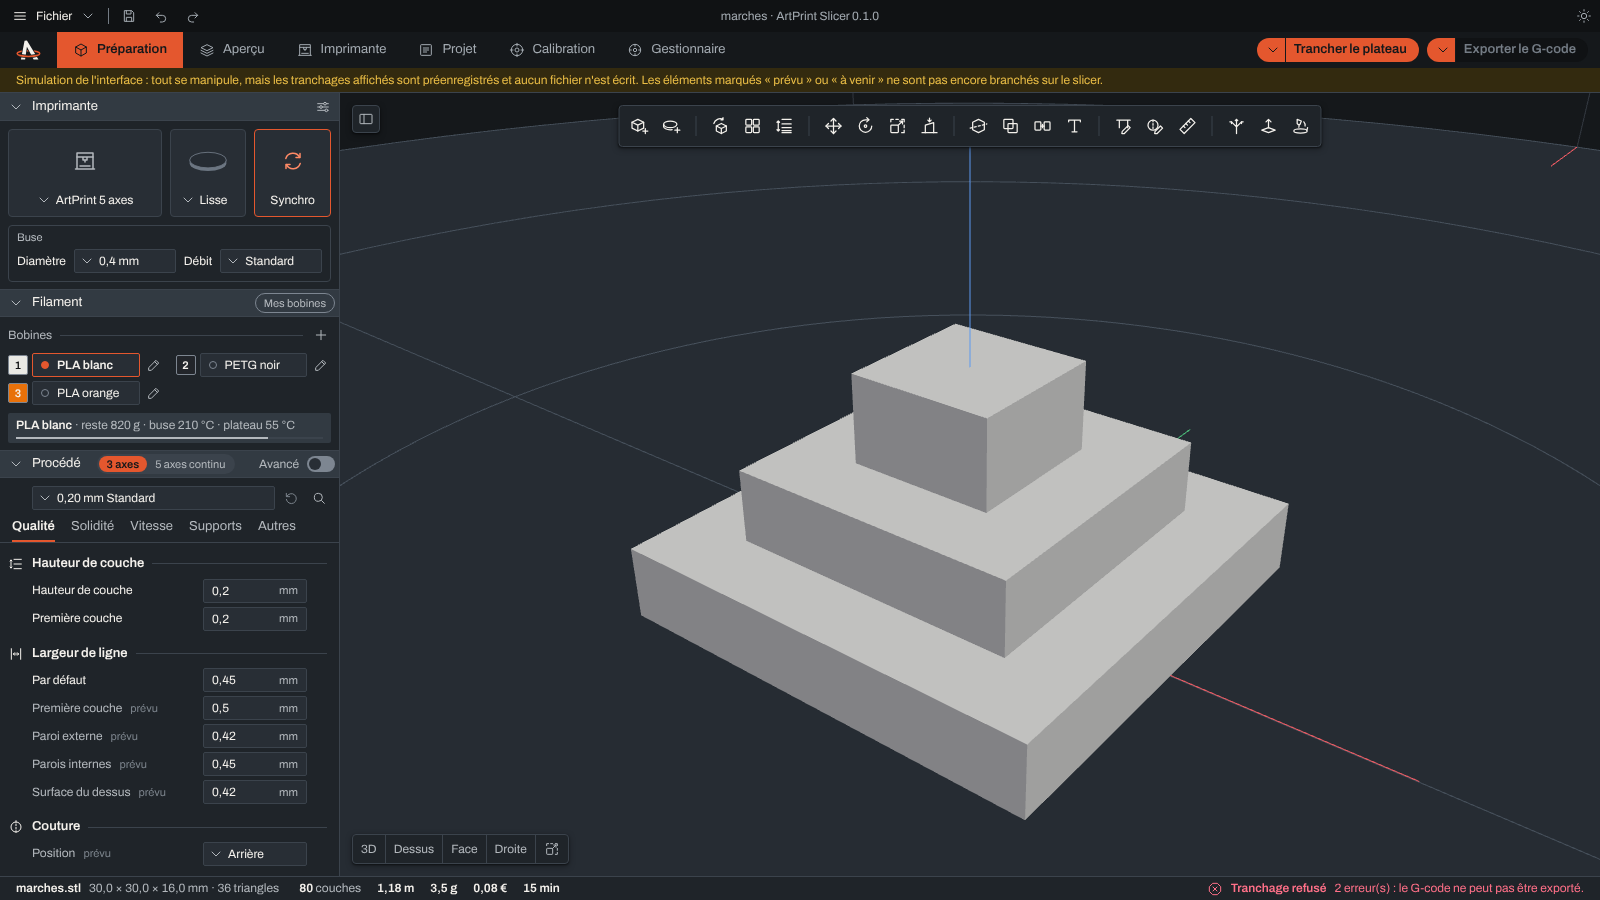
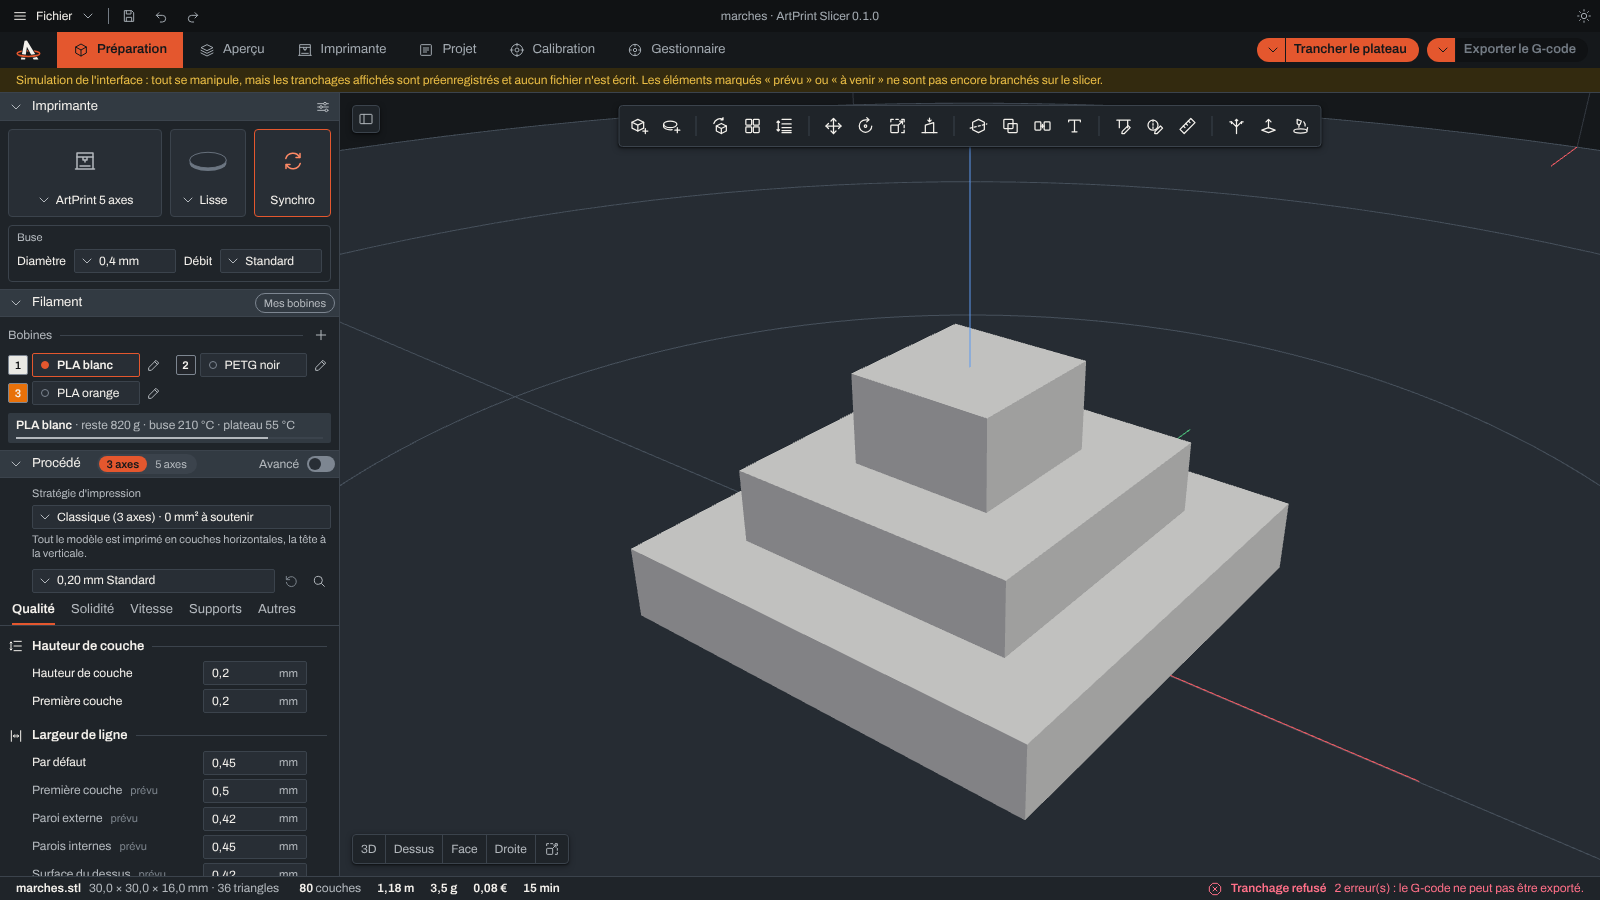
Maquette : choix de la stratégie d'impression ; documentation du 5 axes
- Maquette : bloc « Stratégie d'impression » dans la section Procédé, avec
  la surface à soutenir, les inclinaisons et les remarques ; la pastille
  « 3 axes | 5 axes » suit ce choix ; deux arbres parmi les pièces d'exemple.
- docs/5-axes.md : les cinq axes, la méthode par branches pas à pas, les
  commandes, les réglages utilisés, les limites et la suite.
- Feuille de route et README mis à jour ; captures refaites.

Claude-Session: https://claude.ai/code/session_01AfEuNTdkkqzNC4RYUGH4U7

Changed region(s): [[0.0, 0.5289, 0.1875, 0.9644], [0.125, 0.7156, 0.1875, 0.9644]]

diff --git a/maquette/app.js b/maquette/app.js
@@ -44,6 +44,8 @@ const etat = {
   modele: null,
   resultat: null,
   page: 'preparer',     // page affichée (onglet de la barre du haut)
+  strategies: [],       // façons d'imprimer proposées pour le modèle ouvert
+  strategie: 'classique',
 };
 
 // --- Nombres -------------------------------------------------------------------
@@ -618,6 +620,30 @@ function afficherProcede() {
   zone.scrollTop = defilement;
 }
 
+// --- Stratégies d'impression ------------------------------------------------------
+
+// Liste des façons d'imprimer le modèle ouvert, avec ce qu'il resterait à soutenir.
+function afficherStrategies() {
+  const cinqAxes = etat.strategie === 'par_branches';
+  for (const [id, actif] of [['mode-3axes', !cinqAxes], ['mode-5axes', cinqAxes]]) {
+    $(id).classList.toggle('actif', actif);
+    $(id).setAttribute('aria-pressed', String(actif));
+  }
+  const bloc = $('bloc-strategie');
+  bloc.hidden = !etat.modele || !etat.strategies.length;
+  if (bloc.hidden) return;
+  $('strategie').replaceChildren(...etat.strategies.map((s) => new Option(
+    `${s.nom} · ${entier(s.surplomb_mm2)} mm² à soutenir`, s.type, false, s.type === etat.strategie)));
+  const choisie = etat.strategies.find((s) => s.type === etat.strategie) || etat.strategies[0];
+  const detail = $('strategie-detail');
+  detail.replaceChildren(document.createTextNode(choisie.description));
+  if (choisie.parties.length > 1) {
+    detail.append(document.createTextNode(' Inclinaisons : '),
+      el('b', '', choisie.parties.map((p) => `${fr(p.inclinaison, 0)}°`).join(', ')), document.createTextNode('.'));
+  }
+  for (const remarque of choisie.remarques) detail.append(el('span', 'remarque', remarque));
+}
+
 // --- Relevés, modèle, tranchage --------------------------------------------------
 
 const ICONES_ETAT = { bon: 'ok', mauvais: 'erreur', perime: 'attention' };
@@ -666,6 +692,10 @@ async function ouvrirModele() {
   $('r-modele').textContent = etat.modele.nom;
   $('r-dimensions').textContent = `${fr(x)} × ${fr(y)} × ${fr(z)} mm · ${entier(etat.modele.triangles)} triangles`;
   $('titre-document').textContent = etat.modele.nom.replace(/\.[^.]+$/, '');
+  const proposees = await demander('strategies');
+  etat.strategies = proposees?.strategies ?? [];
+  etat.strategie = 'classique';
+  afficherStrategies();
   if (!etat.modele.ferme) dire(etat.modele.message_fermeture);
   $('btn-trancher').disabled = false;
   perimer();
@@ -736,7 +766,7 @@ async function trancher() {
   if (etat.page !== 'preparer' && etat.page !== 'apercu') choisirVue('preparer');   // pour voir l'attente
   occuper('Tranchage et vérification en cours…');
   await new Promise((suite) => setTimeout(suite, 30));
-  const reponse = await demander('trancher');
+  const reponse = await demander('trancher', { strategie: etat.strategie });
   liberer();
   if (!reponse) { definirEtat('mauvais', 'Tranchage impossible', 'Voir le message en haut de la vue.'); return; }
 
@@ -753,7 +783,9 @@ async function trancher() {
   $('r-cout').textContent = b ? `${fr(grammes * b.prix_kg / 1000, 2)} €` : '';
   $('r-duree').textContent = duree(resultat.duree_s);
   $('etat-resultat').hidden = false;
+  const parties = new Set(resultat.apercu.map((couche) => couche.partie ?? 0)).size;
   $('trajectoires-note').textContent = `Couches de ${ecrire(etat.valeurs.hauteur_couche)} mm · ` +
+    (parties > 1 ? `${parties} parties, chacune dans sa direction · ` : '') +
     `${entier(verification.deplacements_a_vide)} déplacements à vide · ${entier(verification.retractions)} rétractions`;
 
   if (verification.valide) definirEtat('bon', 'G-code vérifié', 'Aucune règle physique violée. Prêt à exporter.');
@@ -862,6 +894,16 @@ function dessinerOutils() {
         bouton.title = 'Ouvrir un modèle…';
         bouton.setAttribute('aria-label', bouton.title);
         bouton.addEventListener('click', ouvrirModele);
+      } else if (nom === 'strategie-5-axes') {
+        // Mène au choix de la stratégie, dans la section Procédé.
+        bouton.title = 'Stratégie d\'impression';
+        bouton.setAttribute('aria-label', bouton.title);
+        bouton.addEventListener('click', () => {
+          if (!etat.modele) { dire('Ouvre d\'abord un modèle : les stratégies dépendent de sa forme.', { info: true }); return; }
+          const replier = document.querySelector('.replier[aria-controls="corps-procede"]');
+          if (replier.getAttribute('aria-expanded') !== 'true') replier.click();
+          $('strategie').focus();
+        });
       } else {
         bouton.title = `${libelle} (à venir)`;
         bouton.setAttribute('aria-label', `${libelle} (à venir)`);
@@ -1011,6 +1053,22 @@ for (const bouton of document.querySelectorAll('.replier')) {
 }
 $('btn-retablir-tout').addEventListener('click', () => choisirProfil(etat.profil));
 $('profil-procede').addEventListener('change', (e) => choisirProfil(e.target.value));
+$('strategie').addEventListener('change', (e) => { etat.strategie = e.target.value; afficherStrategies(); perimer(); });
+// La pastille « 3 axes | 5 axes » choisit la stratégie correspondante.
+function choisirMode(cinqAxes) {
+  if (!etat.modele) { dire('Ouvre d\'abord un modèle : le 5 axes dépend de sa forme.', { info: true }); return; }
+  if (cinqAxes && !etat.strategies.some((s) => s.type === 'par_branches')) {
+    dire('Ce modèle n\'a pas de branche à imprimer dans une autre direction : il reste en 3 axes.', { info: true });
+    return;
+  }
+  const voulue = cinqAxes ? 'par_branches' : 'classique';
+  if (voulue === etat.strategie || (!cinqAxes && etat.strategie !== 'par_branches')) return;
+  etat.strategie = voulue;
+  afficherStrategies();
+  perimer();
+}
+$('mode-3axes').addEventListener('click', () => choisirMode(false));
+$('mode-5axes').addEventListener('click', () => choisirMode(true));
 $('mode-avance').addEventListener('change', (e) => { etat.avance = e.target.checked; afficherProcede(); });
 $('recherche').addEventListener('input', (e) => { etat.recherche = e.target.value; afficherProcede(); });
 $('vue-preparer').addEventListener('click', () => choisirVue('preparer'));

diff --git a/maquette/pont.js b/maquette/pont.js
@@ -6,6 +6,8 @@ const PIECES = [
   { fichier: 'vase.stl', donnees: 'vase', nom: 'Vase bosselé', detail: '50 × 51 × 60 mm, 300 couches' },
   { fichier: 'tube.stl', donnees: 'tube', nom: 'Tube', detail: '30 × 30 × 12 mm, 60 couches' },
   { fichier: 'marches.stl', donnees: 'marches', nom: 'Pièce à marches', detail: '30 × 30 × 16 mm, 80 couches' },
+  { fichier: 'arbre.stl', donnees: 'arbre', nom: 'Arbre (un tronc, deux branches)', detail: '55 × 27 × 60 mm, à essayer avec la stratégie « Par branches »' },
+  { fichier: 'arbre_plat.stl', donnees: 'arbre_plat', nom: 'Arbre plat (une seule pièce)', detail: '60 × 10 × 50 mm, trois stratégies proposées' },
 ];
 
 const base = fetch('./donnees/base.json').then((r) => r.json());
@@ -142,10 +144,17 @@ export async function appeler(commande, parametres = {}) {
       piece = pieces[trouvee.donnees];
       return { ok: true, modele: structuredClone(piece.modele) };
     }
-    case 'trancher':
+    case 'strategies':
+      if (!piece) return { ok: false, erreur: 'Aucun modèle n\'est ouvert.' };
+      return { ok: true, strategies: structuredClone(piece.strategies ?? []) };
+    case 'trancher': {
       if (!piece) return { ok: false, erreur: 'Aucun modèle n\'est ouvert.' };
       await pause(700);
-      return { ok: true, resultat: piece.resultat };
+      const strategie = parametres.strategie || 'classique';
+      const resultat = strategie === 'classique' ? piece.resultat : piece.resultats_strategies?.[strategie];
+      if (!resultat) return { ok: false, erreur: `La stratégie « ${strategie} » n'est pas proposée pour ce modèle.` };
+      return { ok: true, resultat, strategie };
+    }
     default:
       return { ok: false, erreur: `Commande inconnue : « ${commande} ».` };
   }

diff --git a/maquette/index.html b/maquette/index.html
@@ -120,12 +120,17 @@
         <h2><button class="replier" aria-expanded="true" aria-controls="corps-procede" title="Replier" data-icone="chevron-bas"><span>Procédé</span></button></h2>
         <div class="pilule" role="group" aria-label="Mode de tranchage">
           <button id="mode-3axes" class="actif" aria-pressed="true">3 axes</button>
-          <button id="mode-5axes" aria-pressed="false" disabled title="À venir">5 axes continu</button>
+          <button id="mode-5axes" aria-pressed="false" title="5 axes : chaque partie du modèle est imprimée dans sa direction. Le 5 axes continu (tête et plateau qui bougent pendant l'extrusion) est à venir.">5 axes</button>
         </div>
         <span class="ressort"></span>
         <label class="interrupteur-libelle" for="mode-avance">Avancé<input type="checkbox" class="interrupteur" id="mode-avance"></label>
       </header>
       <div class="section-corps procede-corps" id="corps-procede">
+        <div class="strategie" id="bloc-strategie" hidden>
+          <label class="sous-titre" for="strategie">Stratégie d'impression</label>
+          <span class="deroulant" data-icone="chevron-bas"><select id="strategie"></select></span>
+          <p class="strategie-detail" id="strategie-detail"></p>
+        </div>
         <div class="ligne-profil">
           <span class="deroulant" data-icone="chevron-bas"><select id="profil-procede" aria-label="Profil de procédé"></select></span>
           <button class="bouton-icone" id="btn-retablir-tout" title="Rétablir toutes les valeurs du profil" aria-label="Rétablir toutes les valeurs du profil" data-icone="retablir" disabled></button>

diff --git a/maquette/style.css b/maquette/style.css
@@ -227,6 +227,11 @@ input.interrupteur {
   display: grid; grid-template-columns: minmax(0, 1fr) auto auto; gap: var(--e-1); align-items: center; flex: none;
   padding: var(--e-2) var(--e-2) var(--e-1) var(--e-8);
 }
+/* Stratégie d'impression : classique, autre pose, par branches */
+.strategie { display: grid; gap: var(--e-1); flex: none; padding: var(--e-2) var(--e-2) 0 var(--e-8); }
+.strategie-detail { margin: 0; font-size: var(--t-11); line-height: var(--interligne-serre); color: var(--c-texte-2); }
+.strategie-detail b { color: var(--c-texte); font-weight: var(--g-fort); }
+.strategie-detail .remarque { display: block; margin-top: var(--e-1); color: var(--c-attention); }
 .procede-corps > .champ { flex: none; width: auto; height: var(--h-champ-serre); margin: 0 var(--e-2) var(--e-1) var(--e-8); }
 .onglets { display: flex; gap: var(--e-4); flex: none; padding: 0 var(--e-3); border-bottom: var(--bord); overflow-x: auto; }
 .onglets button {

diff --git a/docs/5-axes.md b/docs/5-axes.md
@@ -1,0 +1,140 @@
+# Le 5 axes dans ArtPrint Slicer
+
+Ce document explique, simplement, ce que le slicer sait faire en 5 axes
+aujourd'hui, comment il s'y prend, et ce qui reste à faire pour arriver au
+5 axes **continu**.
+
+## Les cinq axes de la machine
+
+| Axe | Ce qui bouge |
+|---|---|
+| X | la tête, de gauche à droite |
+| Y | le plateau, d'avant en arrière |
+| Z | la tête, de bas en haut |
+| B | la tête qui s'incline autour de son pivot |
+| C | le plateau qui tourne, sans limite, dans les deux sens |
+
+Le slicer raisonne dans le **repère de la pièce** (fixé au plateau) : il
+décide où doit être la pointe de la buse et dans quelle direction elle doit
+pointer. La **cinématique** (`src/cinematique.*`) traduit ensuite cela en
+valeurs X, Y, Z, B, C. Le firmware ne compense rien : c'est le slicer qui
+calcule tout, à partir de réglages mesurés sur la machine (aucune cote n'est
+écrite dans le code).
+
+## L'idée : une stratégie d'impression
+
+Un modèle peut s'imprimer de plusieurs façons. Le slicer en propose jusqu'à
+trois et mesure, pour chacune, la **surface en surplomb** : celle qui serait
+imprimée dans le vide et demanderait des supports.
+
+1. **Classique (3 axes)** : couches horizontales, tête verticale.
+2. **Autre pose (3 axes)** : le modèle entier est couché ou retourné dans la
+   position qui demande le moins de supports, puis imprimé en 3 axes.
+3. **Par branches (5 axes)** : le modèle est découpé en parties, et chaque
+   partie est imprimée dans sa propre direction.
+
+### L'exemple de l'arbre
+
+Pour un arbre (un tronc et des branches), la stratégie « par branches » fait
+ceci :
+
+1. **Remplir le modèle de petits cubes** (voxels) pour savoir où est la
+   matière (`src/squelette.*`).
+2. **Mesurer, pour chaque cube, le chemin le plus court jusqu'à la base**
+   posée sur le plateau, en restant dans la matière. Les cubes à la même
+   distance forment des tranches. Quand une tranche se sépare en deux
+   morceaux, c'est qu'une **branche** part. On obtient le « squelette » : le
+   tronc, les branches, leur direction, leur longueur, leur épaisseur.
+3. **Décider quelles branches méritent leur propre direction** : celles qui
+   s'écartent de plus de 45° de la partie qui les porte (au-delà, elles
+   s'imprimeraient dans le vide).
+4. **Choisir l'inclinaison de la tête** pour chaque branche : celle de la
+   branche si la machine le permet, sinon la plus proche possible (limites
+   de B, limite près du plateau et, si la forme de la machine est connue,
+   plus aucun contact entre la tête et ce qui est déjà imprimé).
+5. **Couper le modèle par un plan** au pied de chaque branche
+   (`src/decoupe.*`). Les deux morceaux sont refermés : ce sont de nouveau
+   des volumes que le slicer sait trancher.
+6. **Trancher chaque partie le long de sa direction** (`src/multiaxe.*`) :
+   le tronc en couches horizontales, chaque branche en couches
+   perpendiculaires à sa direction, avec parois et remplissage comme
+   d'habitude.
+7. **Changer d'orientation entre deux parties** : rétraction, recul le long
+   de la buse, montée au-dessus de tout ce qui est imprimé, rotation de B
+   et de C par petits pas (C par le chemin le plus court), descente, puis
+   approche le long de la buse.
+8. **Faire relire le G-code par le vérificateur**, comme toujours. S'il
+   trouve une faute, le tranchage est refusé.
+
+## L'essayer
+
+Lister les stratégies proposées pour un modèle :
+
+```
+artprint-slicer strategies arbre.stl reglages.txt
+```
+
+Trancher avec la stratégie numéro 2 de cette liste :
+
+```
+artprint-slicer trancher arbre.stl arbre.gcode reglages.txt --strategie=2
+```
+
+Dans l'interface, la commande `strategies` rend la même liste, et
+`trancher` accepte un champ `strategie` (`classique`, `autre_pose` ou
+`par_branches`).
+
+## Réglages de la machine utilisés
+
+- `distance_pivot_buse` : indispensable dès que la tête s'incline.
+- `hauteur_bascule_b` : tant qu'elle n'est pas renseignée, l'inclinaison
+  est limitée partout à `b_limite_pres_plateau`.
+- `b_min`, `b_max` : inclinaisons extrêmes, comptées depuis la verticale.
+- `b_vertical` : valeur de B, dans le G-code, quand la buse est verticale
+  (0 par défaut). À régler si la machine affiche une autre valeur pour la
+  buse verticale.
+- `modele_machine` : s'il est renseigné, les inclinaisons sont choisies pour
+  éviter tout contact avec la forme réelle de l'imprimante.
+
+## Ce qui est vérifié
+
+Chaque G-code multi-directions passe les mêmes contrôles que le 3 axes :
+rétraction avant chaque déplacement à vide, C par le chemin le plus court,
+limites de B et de C, courses des axes, jamais de cordon dans ou sous la
+matière déjà imprimée, et collisions avec la machine quand son modèle est
+renseigné.
+
+Les tests (`tests/test_strategie.cpp`) fabriquent deux arbres, les tranchent
+par branches, exigent zéro erreur du vérificateur, puis provoquent des
+fautes (une branche imprimée deux fois, une inclinaison trop forte) pour
+s'assurer qu'elles sont bien refusées.
+
+## Limites connues
+
+- **Ce n'est pas encore du 5 axes continu.** Pendant qu'une partie
+  s'imprime, B et C ne bougent pas ; ils ne bougent qu'entre deux parties.
+- **Pas de supports.** Ce qui reste en surplomb (surtout le pied des
+  branches) est annoncé en mm², mais rien n'est généré pour le soutenir.
+- **Le vérificateur ne contrôle pas qu'un cordon est posé sur quelque
+  chose.** Une couche imprimée dans le vide n'est pas refusée.
+- **Formes en arbre seulement.** Une anse (deux branches qui se rejoignent)
+  est signalée, et la découpe peut y être imparfaite.
+- **Une seule façon de pencher la tête est essayée** (la cinématique en a
+  deux, d'un côté ou de l'autre avec le plateau retourné).
+- **Le changement d'orientation passe toujours par le haut.** Il n'y a pas
+  encore de recherche du trajet le plus court ou le plus sûr.
+- **L'ordre des parties est simple** : chaque partie après celle qui la
+  porte, de la plus basse à la plus haute.
+
+## La suite, vers le 5 axes continu
+
+1. Contrôle « cordon posé sur quelque chose » dans le vérificateur.
+2. Supports, limités à ce que le 5 axes ne résout pas.
+3. Essai de l'autre façon de pencher la tête, et trajets de changement
+   d'orientation plus courts (reculer le bras au lieu de monter).
+4. **Couches qui pivotent** le long d'une branche courbe : la direction
+   change un peu à chaque couche au lieu de rester fixe par partie.
+5. **Couches courbes** : B et C bougent pendant l'extrusion. C'est le vrai
+   5 axes continu ; les étapes précédentes en sont la base.
+6. Choix de la stratégie dans le logiciel installé (aujourd'hui : ligne de
+   commande, interface de programmation et maquette).

diff --git a/docs/feuille-de-route.md b/docs/feuille-de-route.md
@@ -88,6 +88,12 @@ Légende : ✅ fait · 🟡 en partie · ⬜ à faire
 | Cinématique 5 axes (tête B, plateau C) | ✅ | |
 | Vérificateur des règles physiques | ✅ | |
 | Collisions avec la forme réelle de la machine | ✅ | à accélérer |
-| Trajets à vide sûrs en 5 axes (lever, reculer, tourner) | ⬜ | prochaine étape |
-| Tranchage 3+2 (plans inclinés) | ⬜ | |
+| Stratégies d'impression proposées (classique, autre pose, par branches) | ✅ | voir `docs/5-axes.md` |
+| Squelette du modèle (tronc et branches) | ✅ | formes en arbre ; les anses sont signalées |
+| Découpe par plans, une direction par partie | ✅ | découpe automatique |
+| Tranchage multi-directions (tête inclinée, plateau tourné) | ✅ | B et C fixes pendant une partie |
+| Inclinaisons choisies avec la forme réelle de la machine | ✅ | une seule façon de pencher est essayée |
+| Changement d'orientation sûr (reculer, monter, tourner, approcher) | 🟡 | passe toujours par le haut |
+| Contrôle « cordon posé sur quelque chose » | ⬜ | prochaine étape |
+| Couches qui pivotent le long d'une branche courbe | ⬜ | |
 | Tranchage 5 axes continu (couches courbes) | ⬜ | recherche |

diff --git a/README.md b/README.md
@@ -21,7 +21,9 @@ Ce qui fonctionne aujourd'hui :
 - **Cinématique 5 axes** (tête inclinable B, plateau rotatif C), déjà utilisée par le vérificateur.
 - **Collisions avec la vraie forme de l'imprimante** : la tête, le bras et le module Z sont contrôlés à chaque mouvement contre la matière déjà imprimée, le plateau et le bâti. La forme vient du fichier STEP de la machine, converti par `outils/convertir_machine.py` (le STEP et le modèle converti restent privés, dans le dossier `machine/`).
 
-Ce qui n'existe pas encore : le tranchage 5 axes continu (trajectoires inclinées) et les supports.
+- **Stratégies d'impression et tranchage multi-directions** : le slicer propose plusieurs façons d'imprimer un modèle et, pour une forme en arbre, découpe le tronc et les branches pour imprimer chaque partie dans sa direction, la tête inclinée et le plateau tourné. Voir [docs/5-axes.md](docs/5-axes.md).
+
+Ce qui n'existe pas encore : le 5 axes continu (tête et plateau qui bougent pendant l'extrusion) et les supports.
 
 ## Installation (Windows 64 bits)
 

diff --git a/maquette/LISEZMOI.md b/maquette/LISEZMOI.md
@@ -13,6 +13,9 @@ reporter dans le vrai logiciel (dossier `ui/`).
 - Préparation et Aperçu : colonne des réglages à gauche (Imprimante, Filament,
   Procédé, chacune repliable par la flèche de son bandeau), vue 3D, barre
   d'outils, trajectoires de l'aperçu, ligne d'état en bas.
+- Stratégie d'impression : pour chaque modèle, les façons de l'imprimer
+  proposées par le slicer (classique, autre pose, par branches) ; la pastille
+  « 3 axes | 5 axes » suit ce choix. Pièces d'exemple : deux arbres.
 - Imprimante : caméra, progression de l'impression, températures et
   déplacements des cinq axes X, Y, Z, B, C. C'est une **simulation** : les
   touches ne changent que les valeurs affichées, rien n'est envoyé à une
